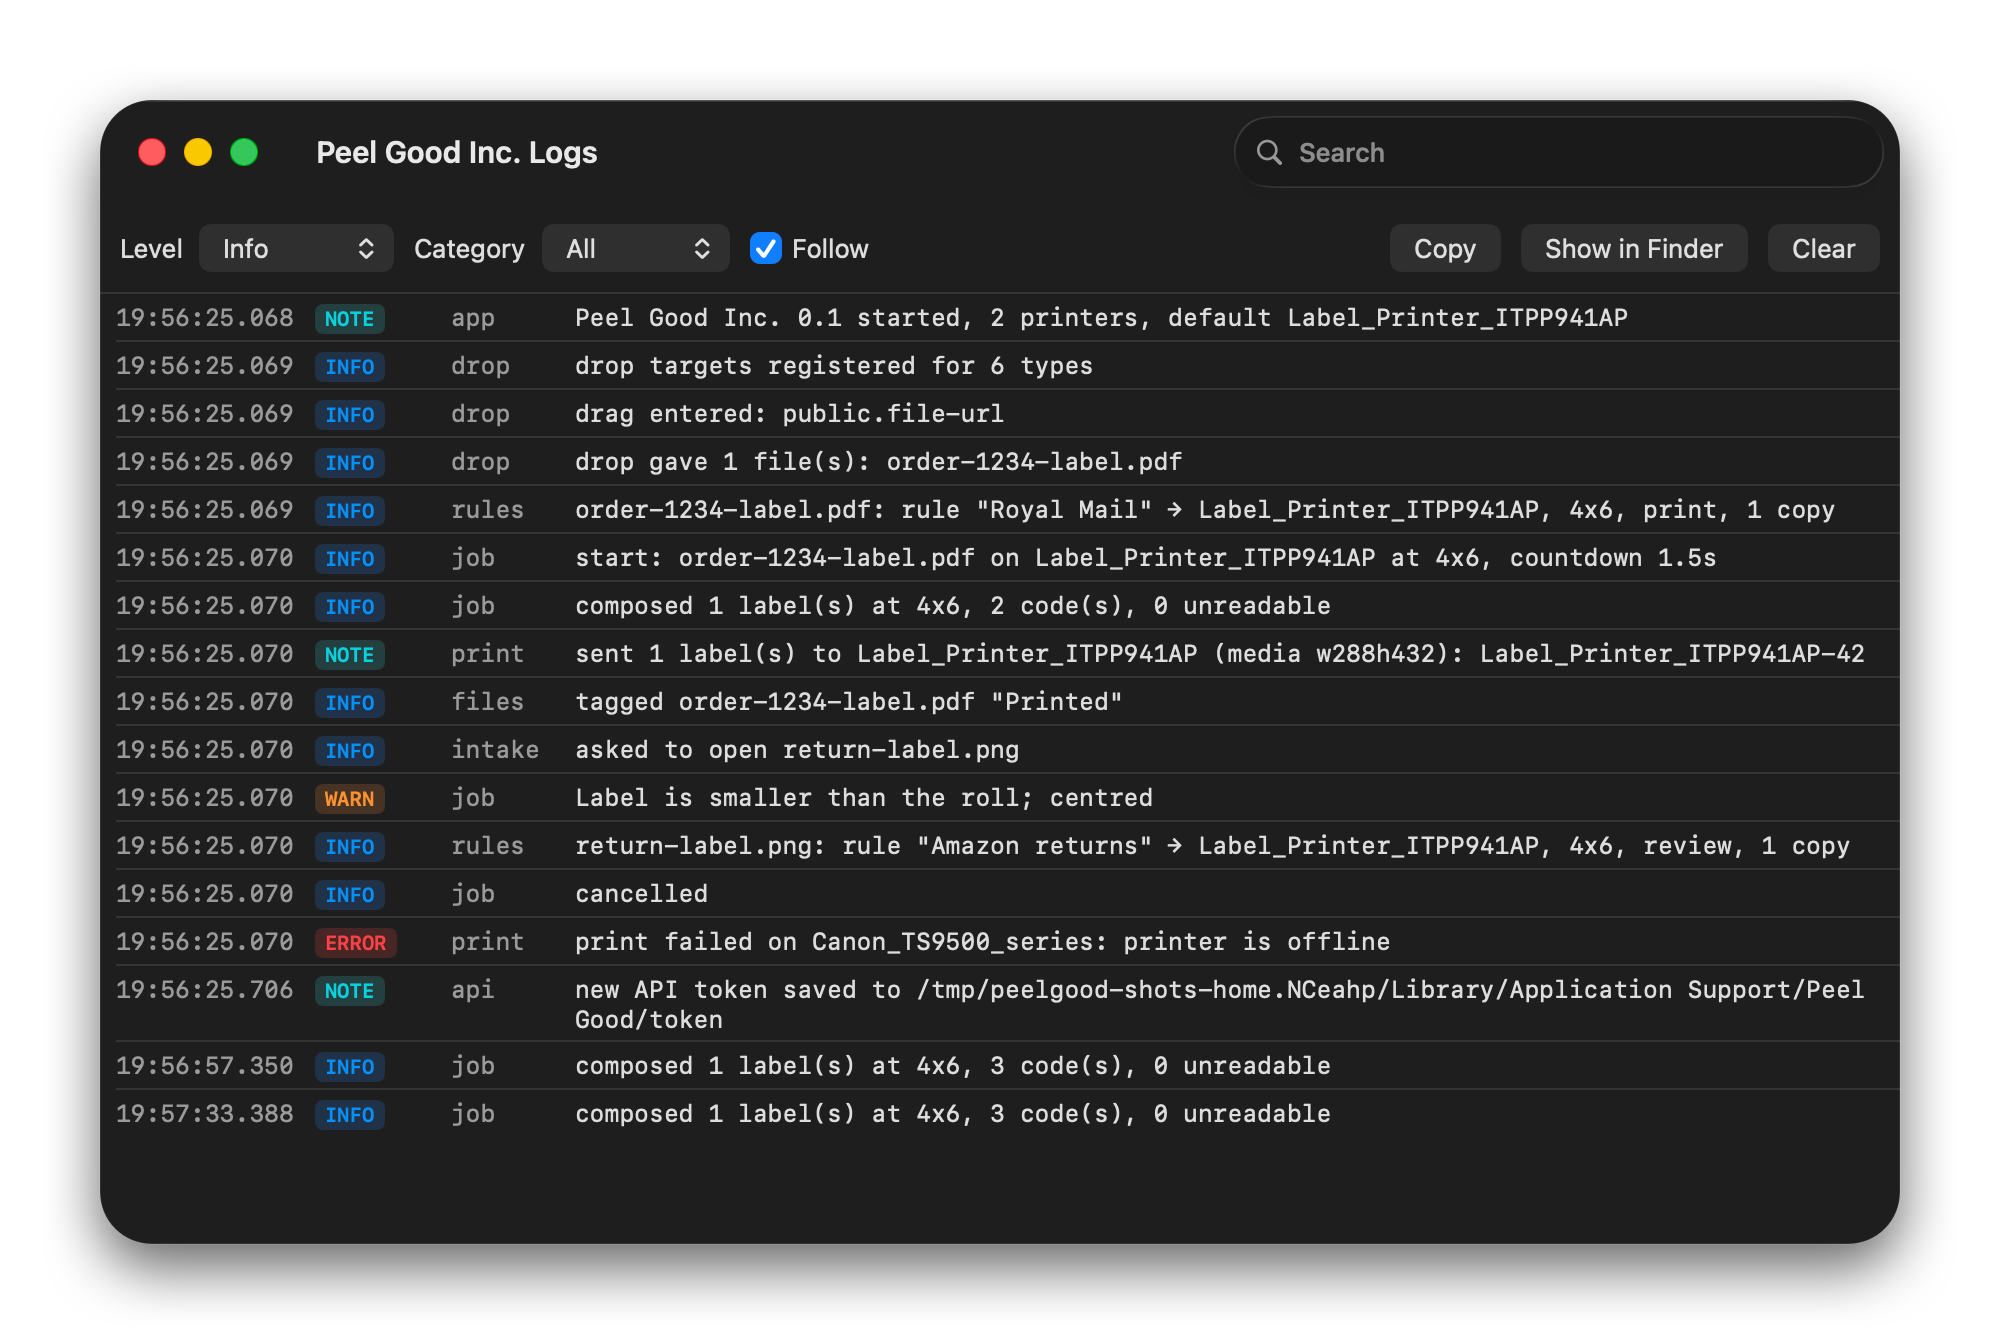
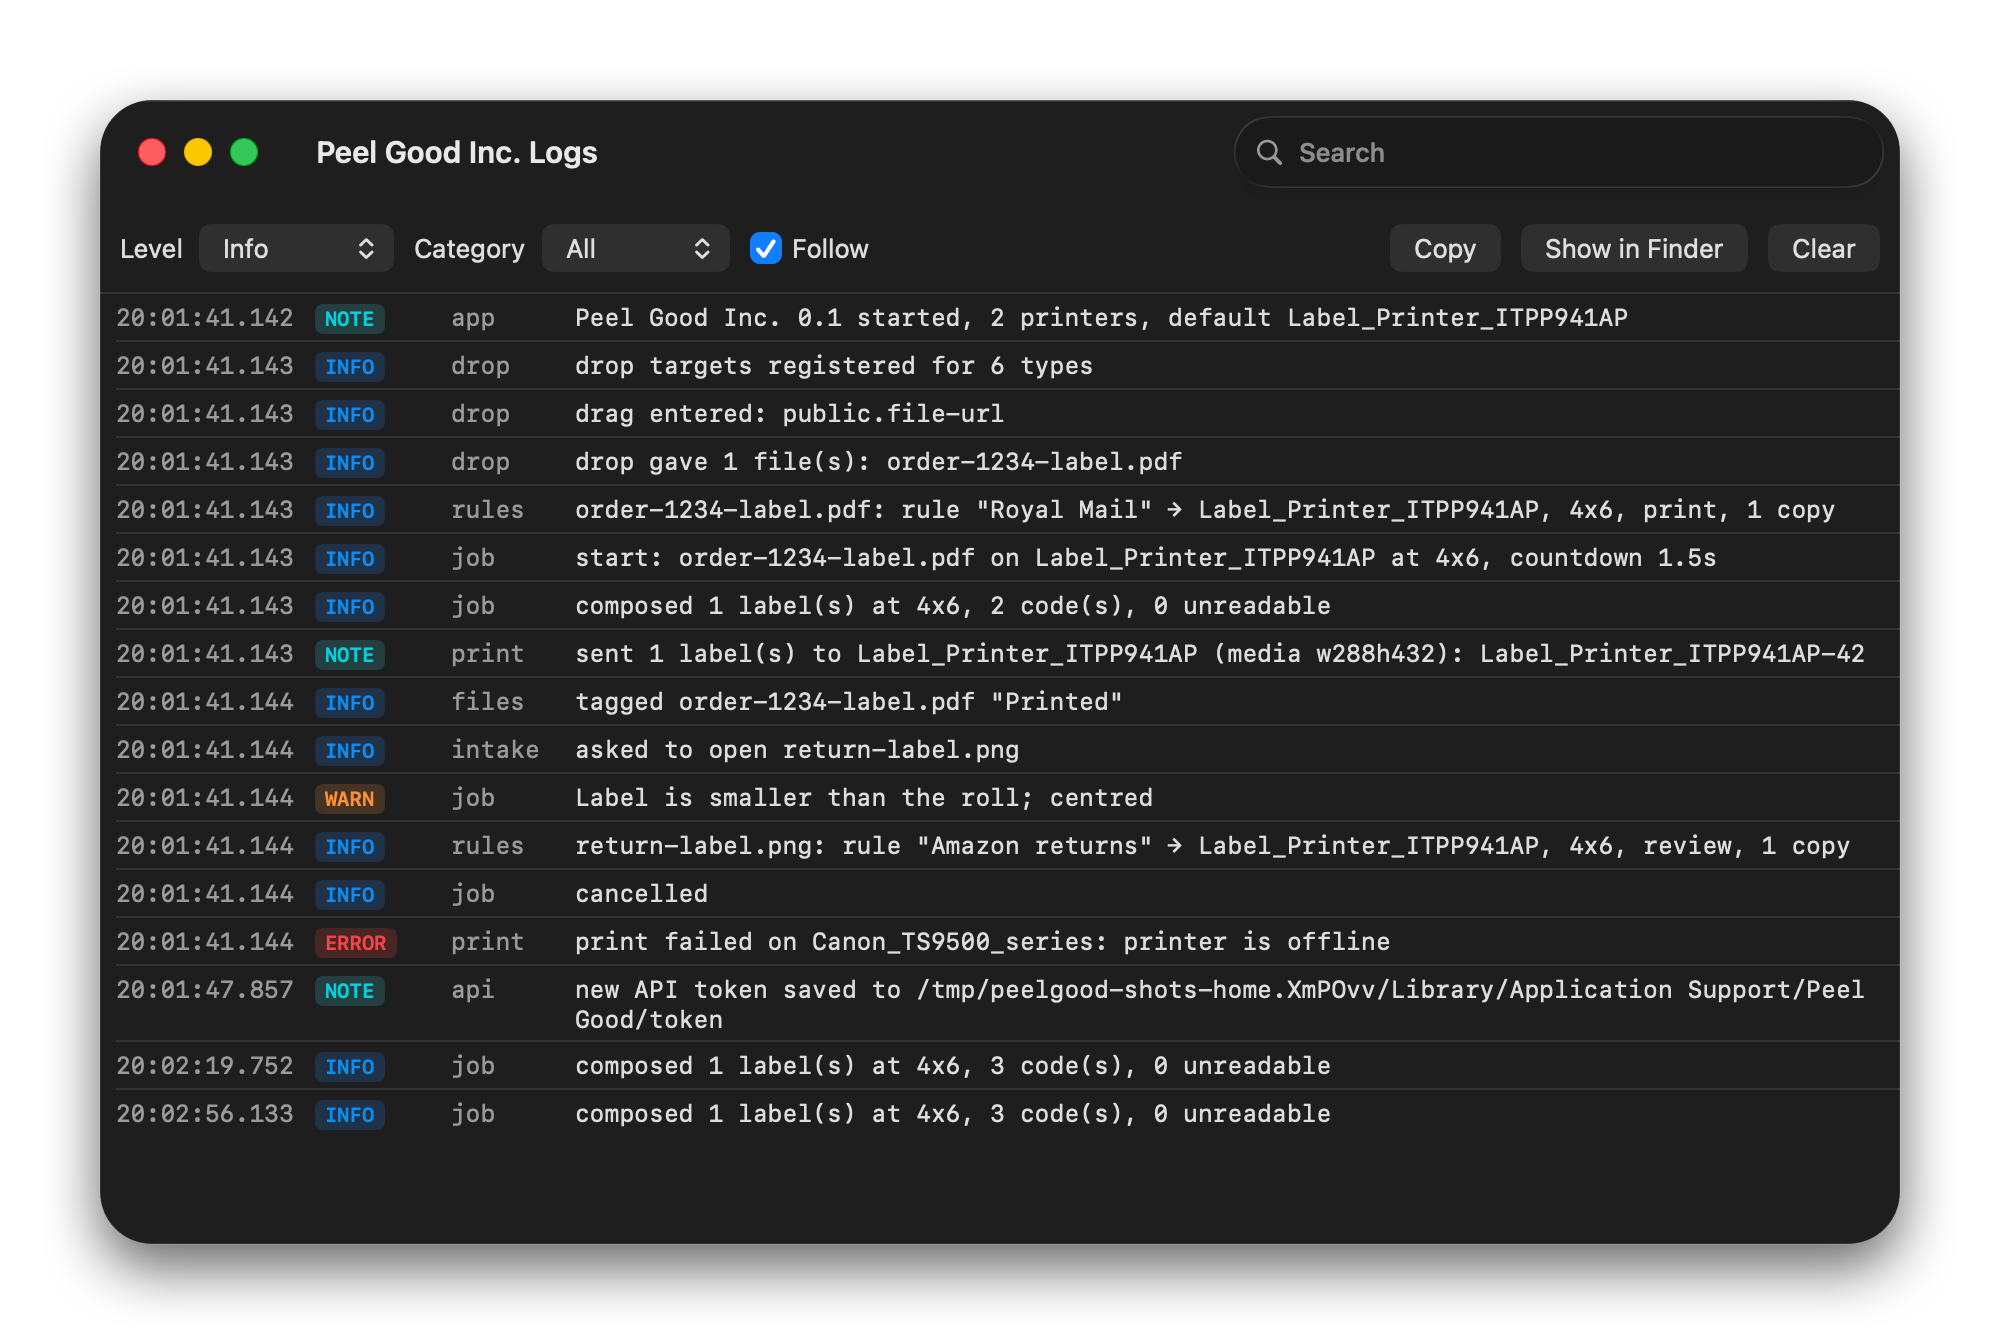
Screenshots show made-up printers and paths, so all of them can be published
The screenshot mode no longer scans for real Zebras or shows the real path
to the MCP relay. The Add Zebra sheet takes preview results, the MCP setup
shows the installed path, and the sample Zebra uses an example address.
Adds the eight screenshots that were held back, and the encrypted-labels sheet.

diff --git a/Sources/PeelGoodApp/Screenshots.swift b/Sources/PeelGoodApp/Screenshots.swift
@@ -33,9 +33,15 @@ enum Screenshots {
         try? FileManager.default.createDirectory(at: dir, withIntermediateDirectories: true)
         print(useWindowServer ? "capturing with the window server (own windows only)" : "capturing with cacheDisplay (no Screen Recording access)")
         if isolated { await seedLog() }
+        // Screenshots are published: no real paths or printers in them.
+        Snippets.shimPathOverride = "/Applications/Peel Good Inc.app/Contents/MacOS/peel-good-mcp"
+        let fakeUSB = USBCandidate(id: "usb-99J000000002", profile: Zebra.Profile(serial: "99J000000002", host: nil, usbSerial: "99J000000002",
+                                                                              product: "ZD421", dotsPerMM: 8, headDots: 832, maximumLength: 39, discoveryID: nil))
+        let fakeNetwork = ZebraCandidate(found: Zebra.Found(host: "192.168.1.51", server: "ZebraNet Wired PS", firmware: "V93.21.19Z",
+                                                            serial: "000001", systemName: "ZBR11000001"), product: "ZT411")
         let printers = RulesPreviewData.printers
         // A Zebra for its settings, only in a throwaway home: the GX420t this was built against.
-        let zebra = Zebra.Profile(serial: "99J000000001", host: "192.168.1.216", usbSerial: "99J000000001", product: "GX420t", dotsPerMM: 8,
+        let zebra = Zebra.Profile(serial: "99J000000001", host: "192.168.1.50", usbSerial: "99J000000001", product: "GX420t", dotsPerMM: 8,
                                   headDots: 832, maximumLength: 39, discoveryID: "123456")
         if isolated {
             store.addZebra(zebra)
@@ -126,7 +132,7 @@ enum Screenshots {
                 save(windowImage(detail), file("settings-printer-zebra-detail"))
                 detail.close()
 
-                let add = window(NSHostingController(rootView: active(AddZebraSheet(store: store) { _ in })), style: [.titled], appearance: appearance)
+                let add = window(NSHostingController(rootView: active(AddZebraSheet(store: store, done: { _ in }, preview: ([fakeUSB], [fakeNetwork])))), style: [.titled], appearance: appearance)
                 add.title = ""
                 await settle(add, 6)
                 save(windowImage(add), file("settings-add-zebra"))

diff --git a/Sources/PeelGoodApp/Settings.swift b/Sources/PeelGoodApp/Settings.swift
@@ -488,6 +488,8 @@ struct PrinterDetail: View {
 struct AddZebraSheet: View {
     @ObservedObject var store: Store
     let done: (PrinterInfo?) -> Void
+    /// What the scan finds, instead of scanning (for screenshots).
+    var preview: (usb: [USBCandidate], network: [ZebraCandidate])?
     @State private var found: [ZebraCandidate] = []
     @State private var onUSB: [USBCandidate] = []
     @State private var scanning = true
@@ -554,6 +556,11 @@ struct AddZebraSheet: View {
     }
 
     private func scan() async {
+        if let preview {
+            (onUSB, found) = preview
+            scanning = false
+            return
+        }
         let settings = store.settings
         async let usb = Task.detached(priority: .userInitiated) { settings.scanUSB(includingIgnored: true) }.value
         async let network = Task.detached(priority: .userInitiated) { settings.scanZebras() }.value

diff --git a/Sources/PeelGoodCore/Zebras.swift b/Sources/PeelGoodCore/Zebras.swift
@@ -144,6 +144,11 @@ extension AppSettings {
 public struct USBCandidate: Sendable, Equatable {
     public var id: String
     public var profile: Zebra.Profile
+
+    public init(id: String, profile: Zebra.Profile) {
+        self.id = id
+        self.profile = profile
+    }
 }
 
 /// A Zebra a scan found.
@@ -155,6 +160,13 @@ public struct ZebraCandidate: Sendable, Equatable {
     public var isKnown: Bool
     /// The user said not to offer it again.
     public var isIgnored: Bool
+
+    public init(found: Zebra.Found, product: String?, isKnown: Bool = false, isIgnored: Bool = false) {
+        self.found = found
+        self.product = product
+        self.isKnown = isKnown
+        self.isIgnored = isIgnored
+    }
 
     /// Not added and not ignored: worth offering.
     public var isNew: Bool { !isKnown && !isIgnored }

diff --git a/Sources/LabelKit/Zebra.swift b/Sources/LabelKit/Zebra.swift
@@ -391,6 +391,14 @@ public enum Zebra {
         /// The name set on the printer ("ZBR11123456" by default).
         public var systemName: String
 
+        public init(host: String, server: String, firmware: String, serial: String, systemName: String) {
+            self.host = host
+            self.server = server
+            self.firmware = firmware
+            self.serial = serial
+            self.systemName = systemName
+        }
+
         /// Parses a reply to the 4201 probe. Field offsets as documented by ZPLKit (MIT).
         public init?(reply: [UInt8], from host: String) {
             guard reply.count >= 109, reply[0] == 0x3A, reply[1] == 0x2C, reply[2] == 0x2E else { return nil }

diff --git a/Sources/PeelGoodApp/API/APIPane.swift b/Sources/PeelGoodApp/API/APIPane.swift
@@ -229,8 +229,12 @@ struct APIReferenceSheet: View {
 // MARK: Snippets
 
 enum Snippets {
+    /// Set by the screenshot mode, so a screenshot shows the installed path and no user name.
+    nonisolated(unsafe) static var shimPathOverride: String?
+
     /// The bundled stdio relay, next to the app's executable.
     static var shimPath: String {
+        if let shimPathOverride { return shimPathOverride }
         let bundle = Bundle.main.bundleURL
         if bundle.pathExtension == "app" { return bundle.appendingPathComponent("Contents/MacOS/peel-good-mcp").path }
         return (Bundle.main.executableURL ?? bundle).deletingLastPathComponent().appendingPathComponent("peel-good-mcp").path
